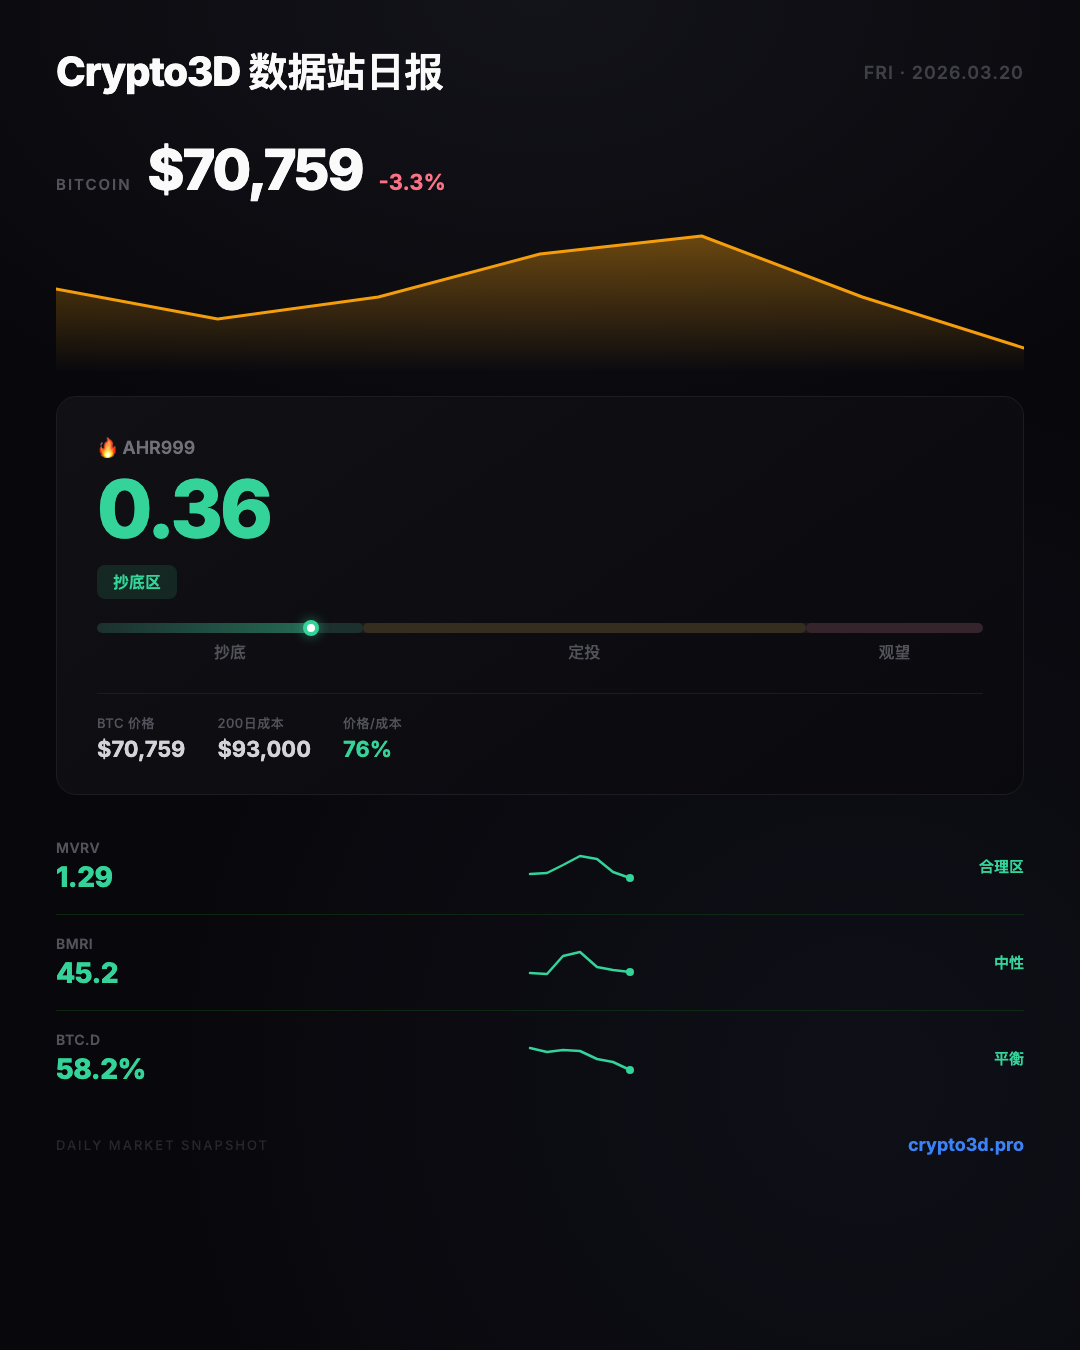
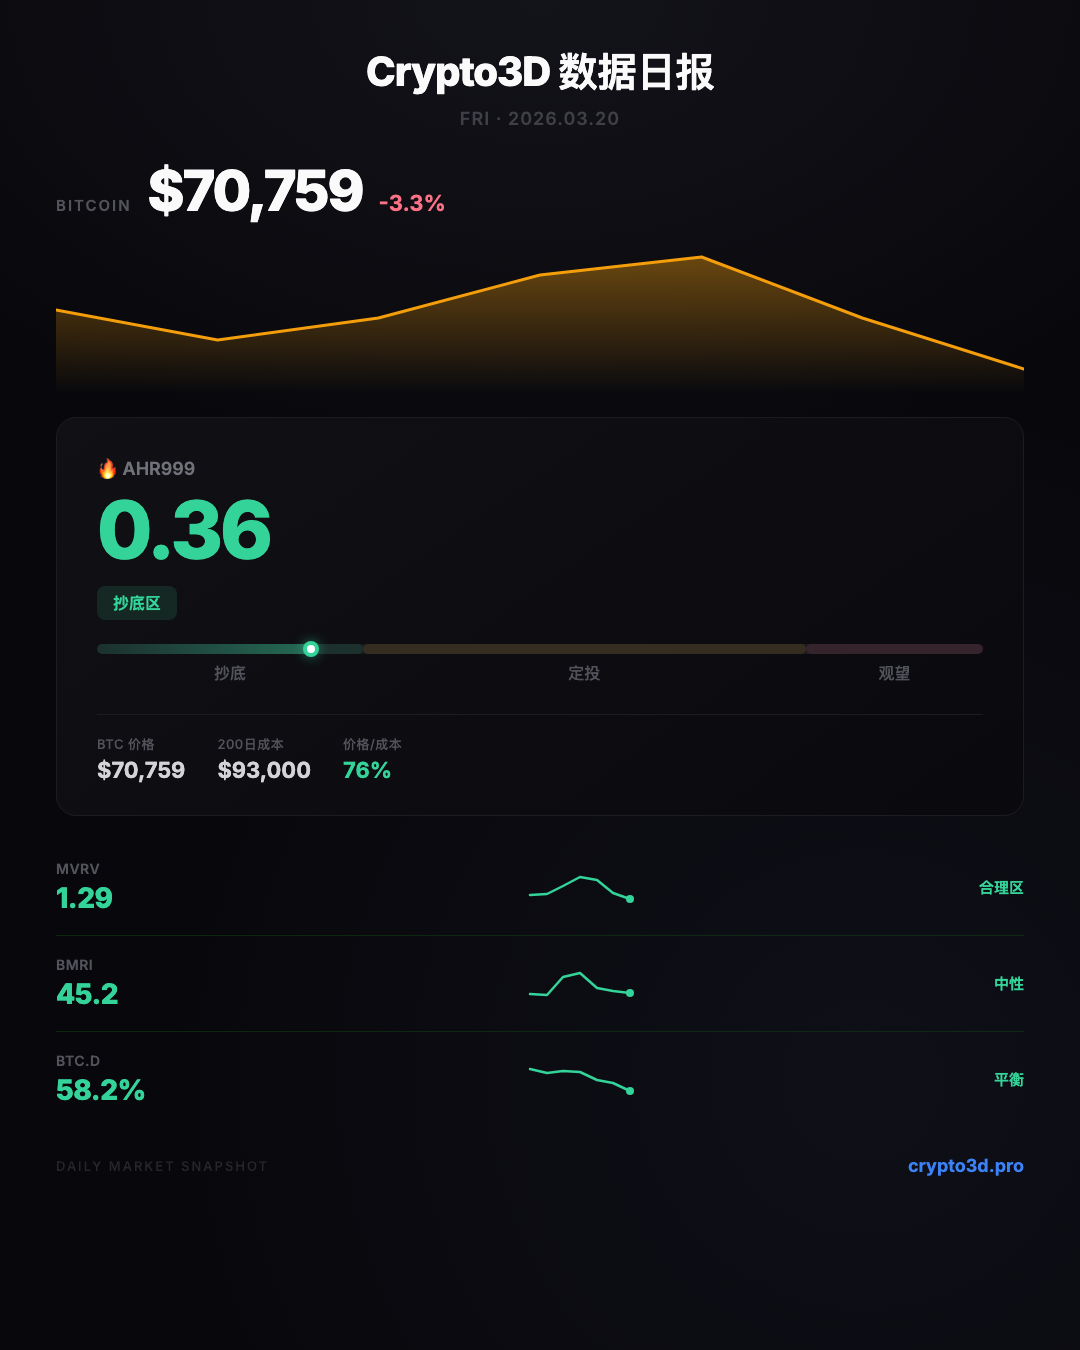
center title: Crypto3D 数据日报

diff --git a/poster/output/2026-03-20.html b/poster/output/2026-03-20.html
@@ -20,9 +20,10 @@ body {
 /* === HEADER === */
 .header {
   display: flex;
-  justify-content: space-between;
+  flex-direction: column;
   align-items: center;
-  padding: 44px 56px 36px;
+  padding: 44px 56px 28px;
+  gap: 8px;
 }
 .h-brand {
   font-size: 40px;
@@ -198,7 +199,7 @@ body {
 <body>
 
 <div class="header">
-  <div class="h-brand">Crypto3D 数据站日报</div>
+  <div class="h-brand">Crypto3D 数据日报</div>
   <div class="h-date">FRI · 2026.03.20</div>
 </div>
 

diff --git a/poster/gen.py b/poster/gen.py
@@ -272,9 +272,10 @@ body {{
 /* === HEADER === */
 .header {{
   display: flex;
-  justify-content: space-between;
+  flex-direction: column;
   align-items: center;
-  padding: 44px 56px 36px;
+  padding: 44px 56px 28px;
+  gap: 8px;
 }}
 .h-brand {{
   font-size: 40px;
@@ -450,7 +451,7 @@ body {{
 <body>
 
 <div class="header">
-  <div class="h-brand">Crypto3D 数据站日报</div>
+  <div class="h-brand">Crypto3D 数据日报</div>
   <div class="h-date">{weekday} · {date_str}</div>
 </div>
 
